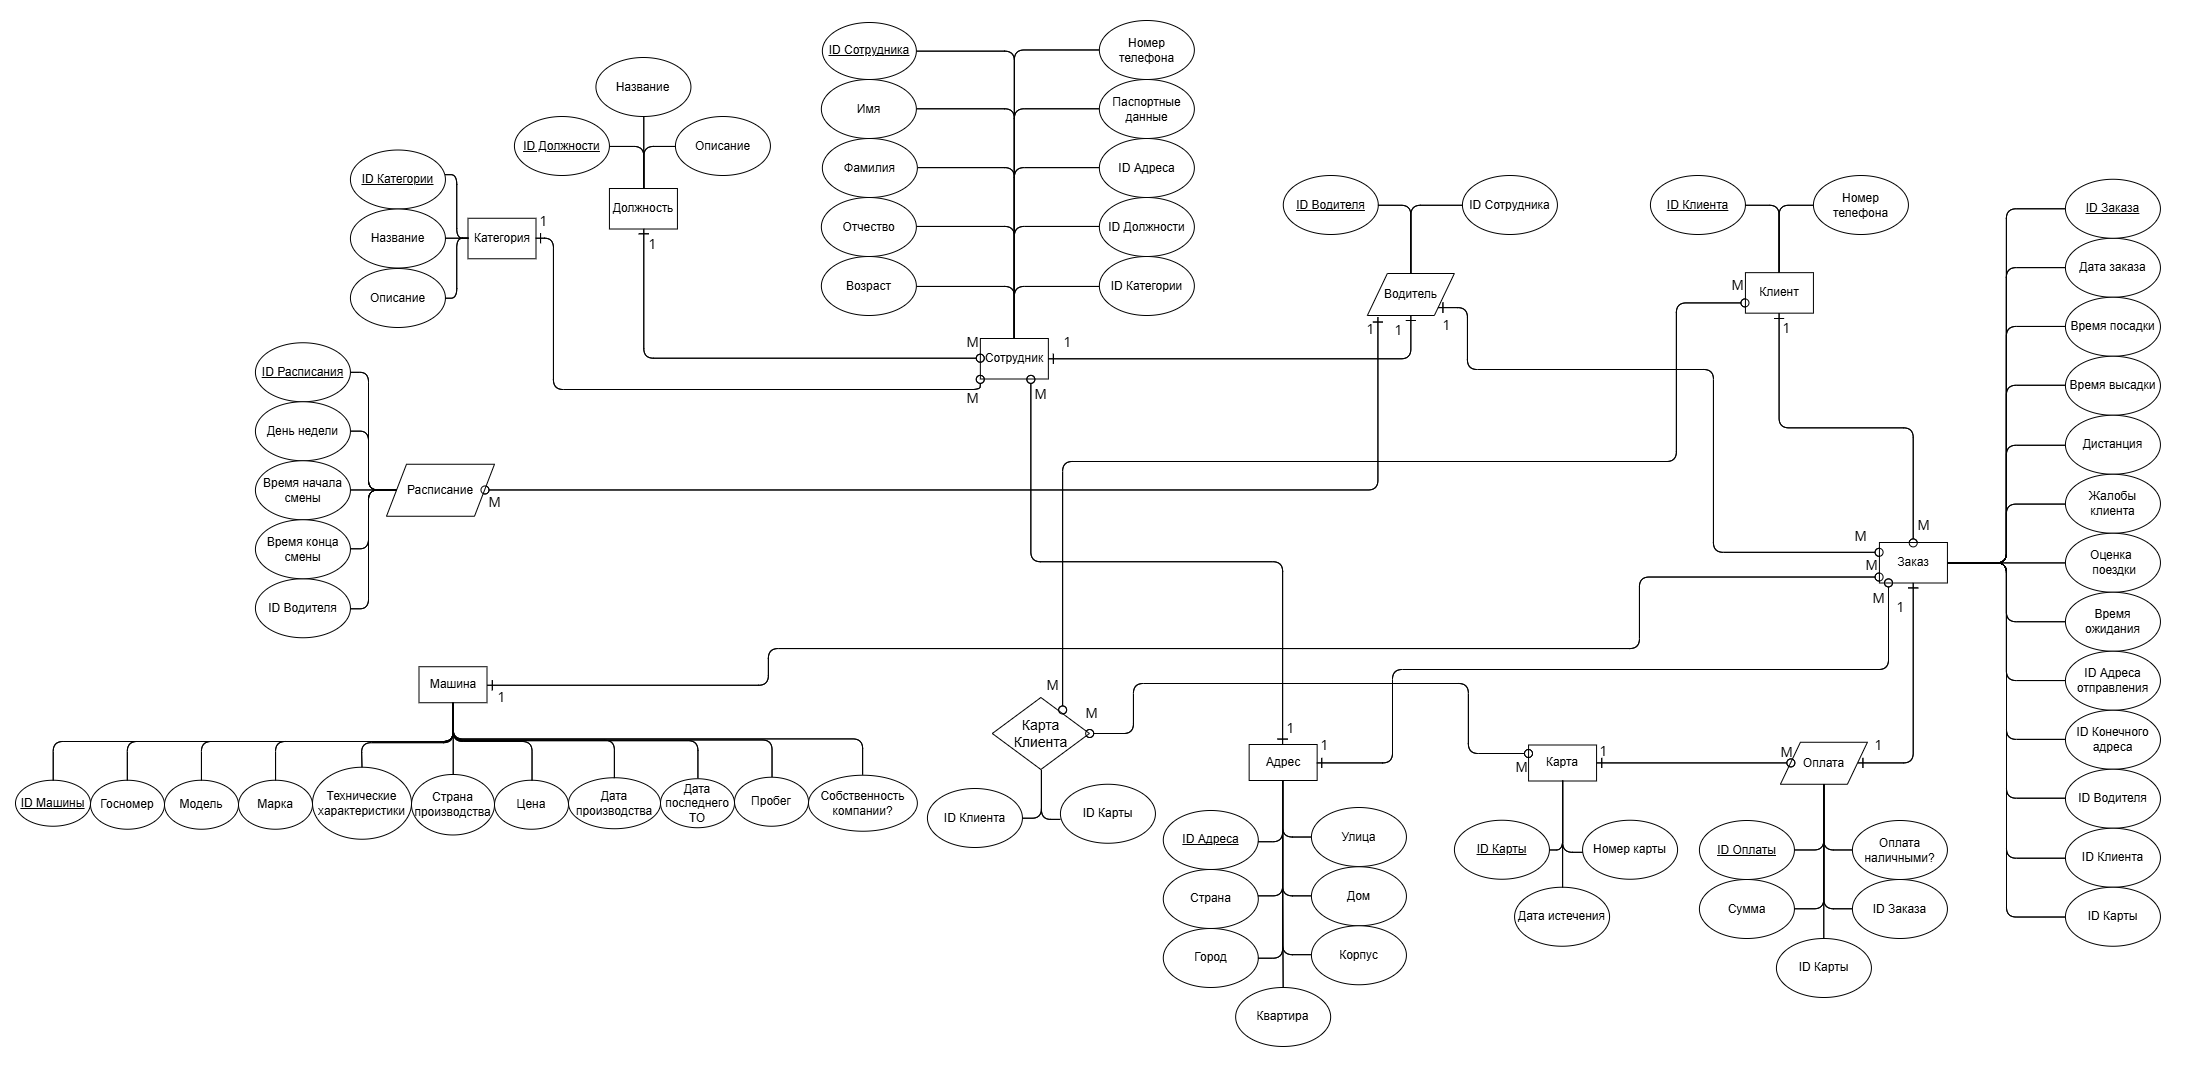
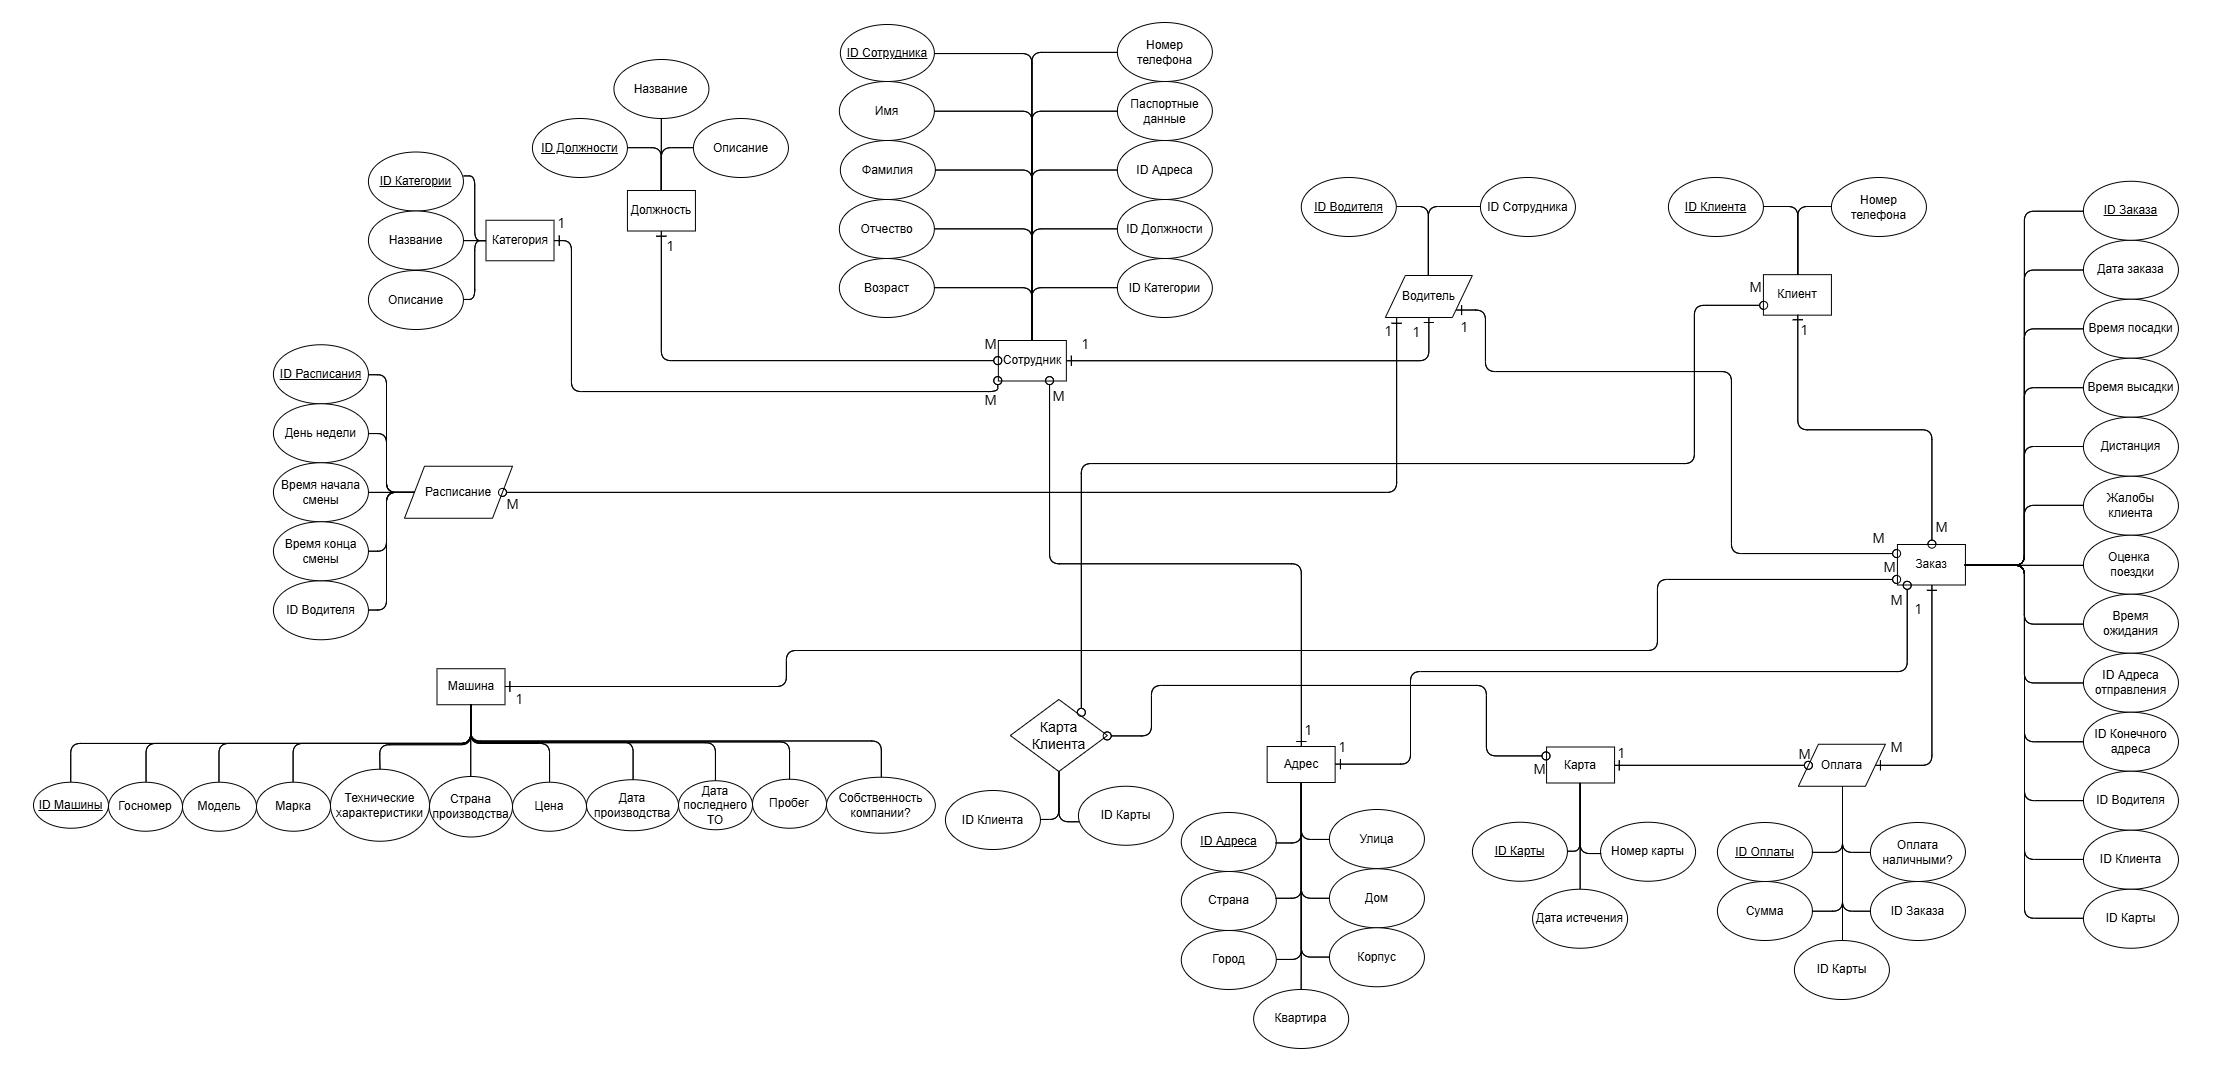
[fix]: Updated relationship between Payment and Order

diff --git a/students/K3239/Shafikov_Maxim/LR_2/dbase.py b/students/K3239/Shafikov_Maxim/LR_2/dbase.py
@@ -64,7 +64,7 @@ class Payment(BaseModel):
     amount: int
     is_cash: bool
 
-    order_id: uuid.UUID  # ForeignKey["Order"], One to one
+    order_id: uuid.UUID  # ForeignKey["Order"], Many to one
     card_id: Optional[uuid.UUID]  # ForeignKey["Card"], Many to one
 
 
